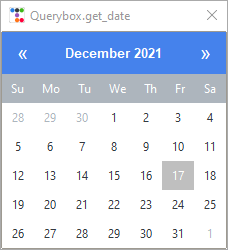
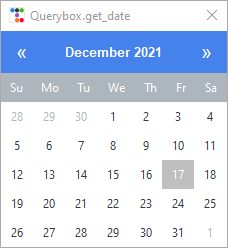
remove border from DatePickerDialog frame

diff --git a/src/ttkbootstrap/dialogs.py b/src/ttkbootstrap/dialogs.py
@@ -588,7 +588,7 @@ class DatePickerDialog:
         """Setup the calendar widget"""
         # create the widget containers
         self.frm_calendar = ttk.Frame(
-            master=self.root, padding=0, borderwidth=1, relief=RAISED
+            master=self.root, padding=0, borderwidth=0, relief=FLAT
         )
         self.frm_calendar.pack(fill=BOTH, expand=YES)
         self.frm_title = ttk.Frame(self.frm_calendar, padding=(3, 3))
@@ -731,7 +731,7 @@ class DatePickerDialog:
                 A list of weekday column names for the calendar header.
         """
         weekdays = ["Mo", "Tu", "We", "Th", "Fr", "Sa", "Su"]
-        header = weekdays[self.firstweekday :] + weekdays[: self.firstweekday]
+        header = weekdays[self.firstweekday:] + weekdays[: self.firstweekday]
         return header
 
     def _on_date_selected(self, row, col):

diff --git a/development/tests/date_entry_widget.py b/development/tests/date_entry_widget.py
@@ -1,0 +1,12 @@
+import ttkbootstrap as ttk
+from ttkbootstrap.constants import *
+
+root = ttk.Window()
+
+frame = ttk.Frame(root, padding=10)
+frame.pack(padx=10, pady=10)
+
+de = ttk.DateEntry(frame)
+de.pack(fill=X)
+
+root.mainloop()
